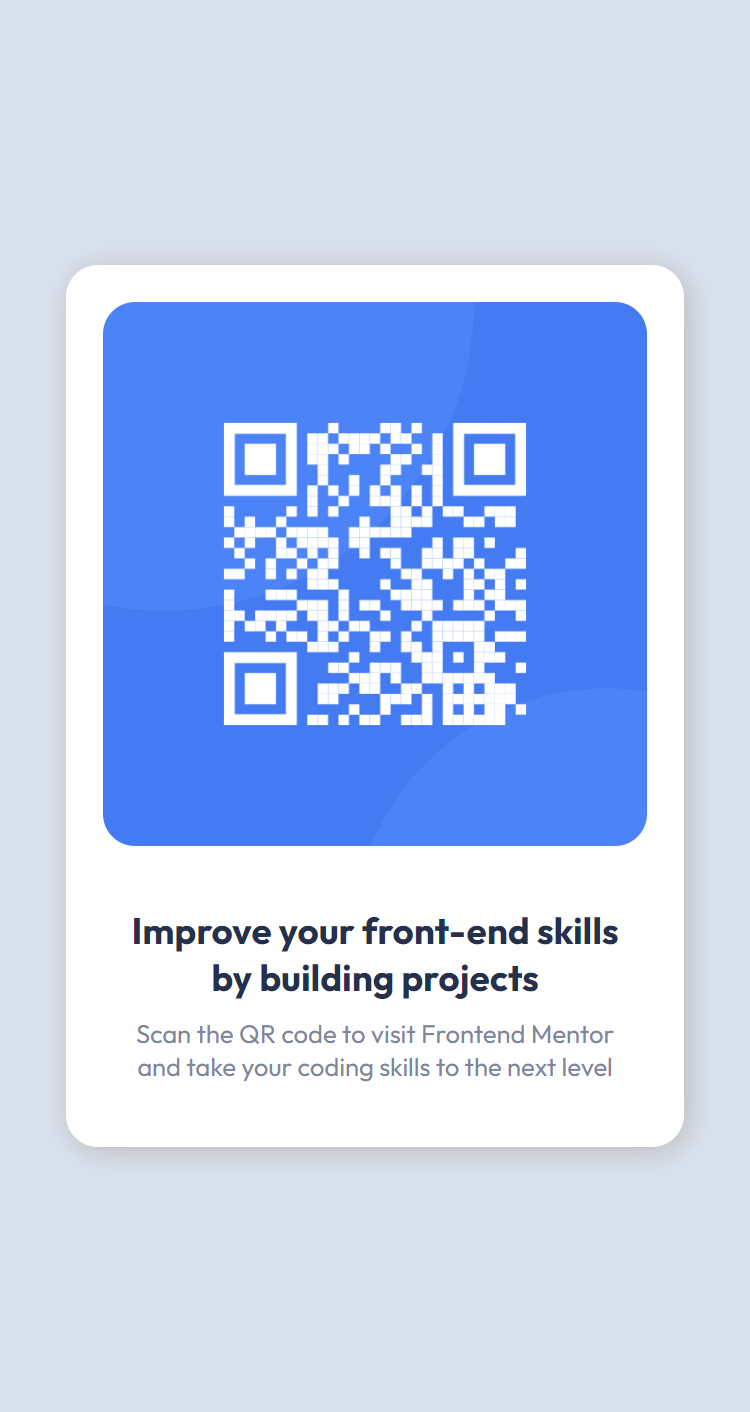
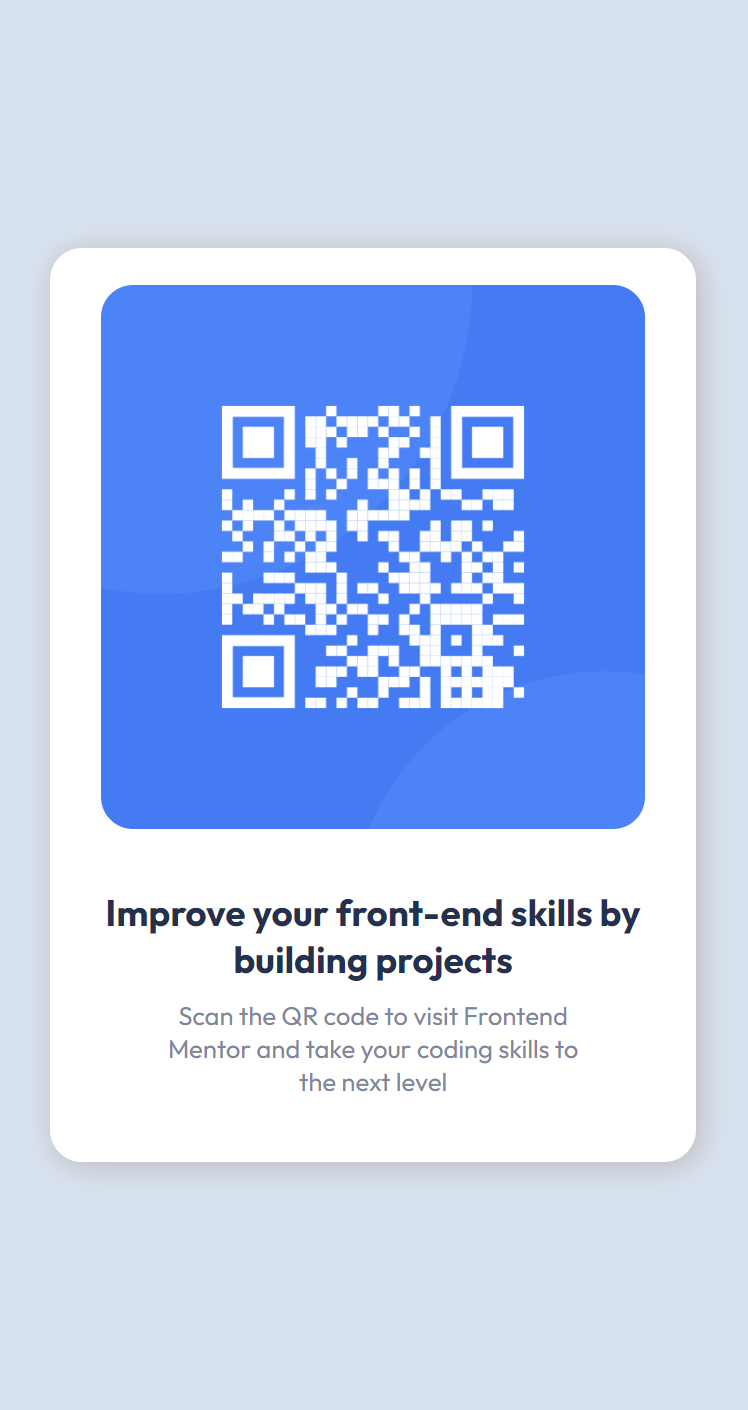
Update Width of content in CSS and the Mobile ScreenShot

Changed region(s): [[0.123, 0.5617, 0.861, 0.7801], [0.0615, 0.156, 0.9532, 0.8426], [0.2767, 0.2809, 0.7072, 0.5305]]

diff --git a/dist/css/styles.css b/dist/css/styles.css
@@ -82,6 +82,6 @@ body {
     padding: 1.15rem;
   }
   .qr-code-component_inner_content {
-    width: 78%;
+    width: 70%;
   }
 }/*# sourceMappingURL=styles.css.map */
